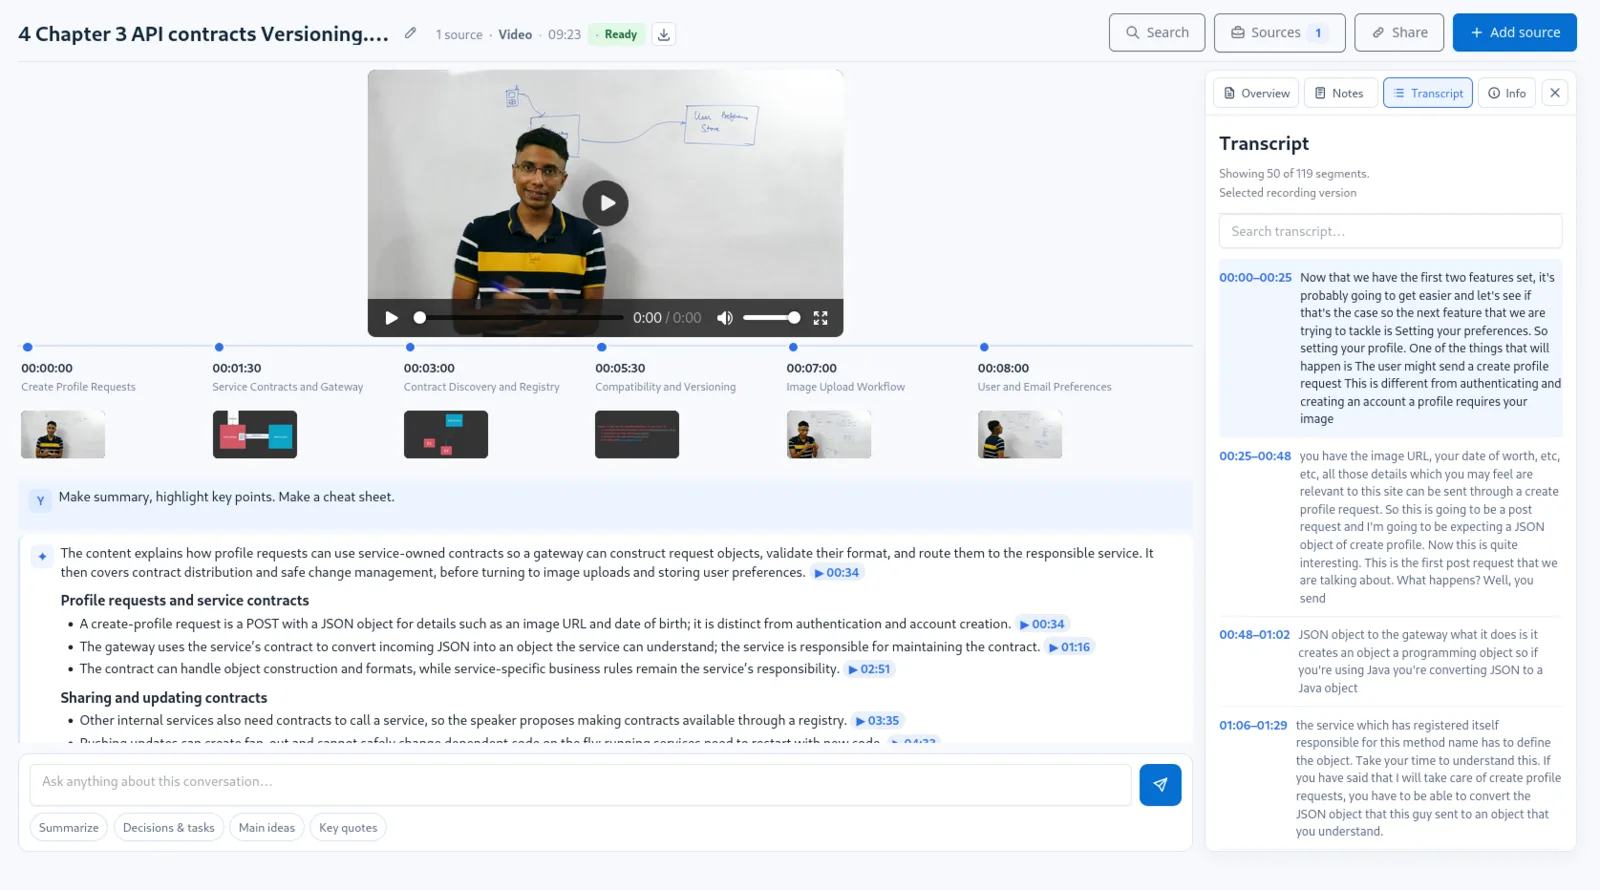
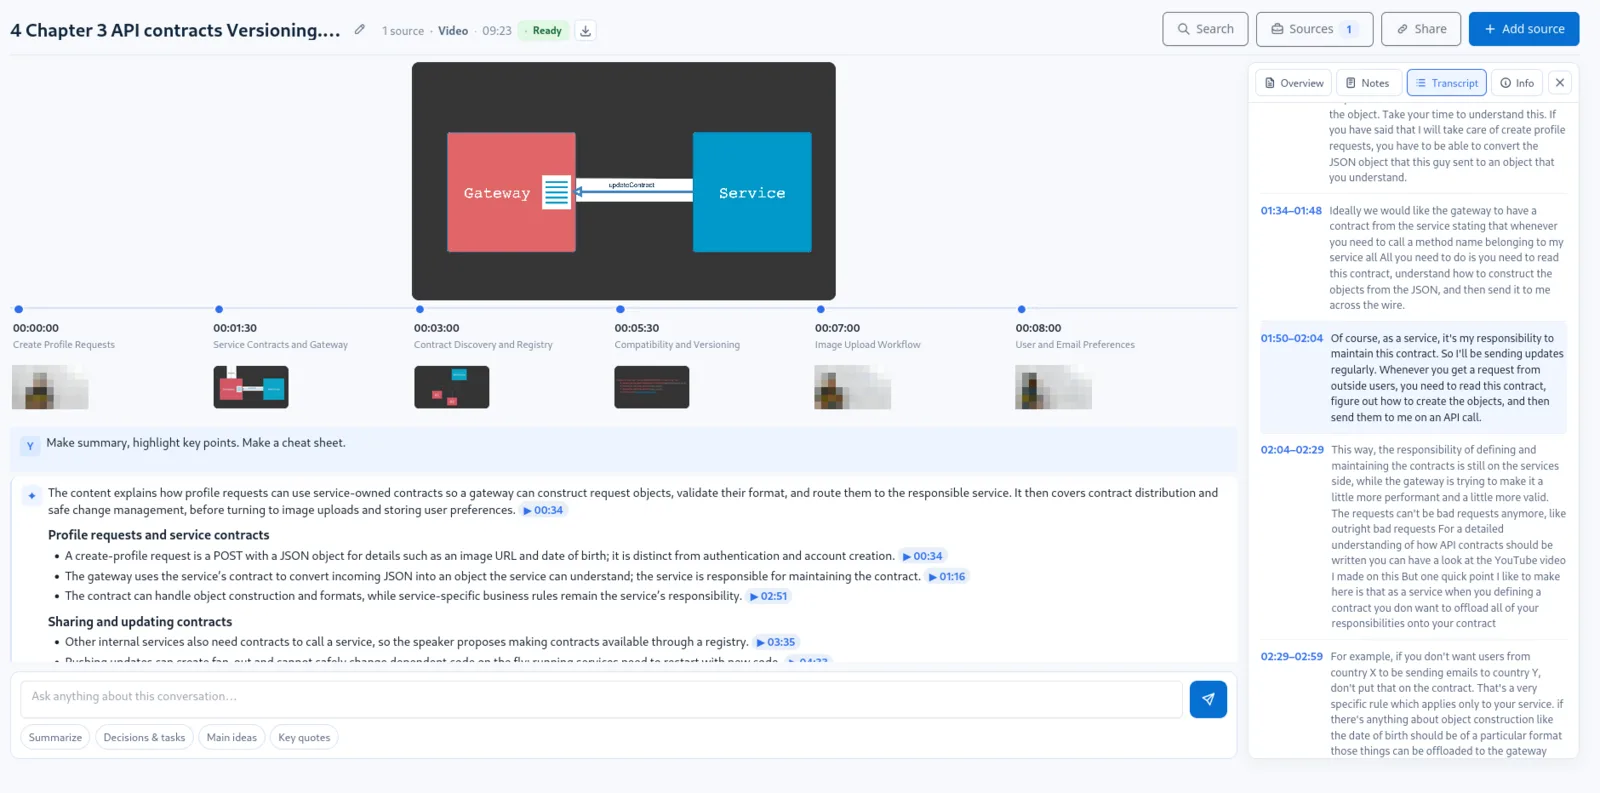
content: tldw screenshots without third-party faces
- chapter thumbnails with the lecturer pixelated in the card screenshot
- game panel shows the evidence view (cited answer -> exact video moment)

Claude-Session: https://claude.ai/code/session_011C9cLnFkLHGcLLHHwF6Jcr

diff --git a/src/components/CheckpointPanel.tsx b/src/components/CheckpointPanel.tsx
@@ -42,10 +42,8 @@ export function CheckpointPanel({ checkpoint, variant = 'default' }: Props) {
               <img
                 src={checkpoint.image.src}
                 alt={checkpoint.image.alt}
-                width={1600}
-                height={1000}
                 loading="lazy"
-                className="aspect-[16/10] w-full rounded-2xl border border-white/10 object-cover object-top"
+                className="h-auto w-full rounded-2xl border border-white/10"
               />
             ) : null}
 

diff --git a/src/content/checkpoints.ts b/src/content/checkpoints.ts
@@ -51,7 +51,7 @@ export const checkpoints: Checkpoint[] = [
     side: 'left',
     position: { x: 40, y: 25 },
     links: [{ label: 'tldw.cloud', href: 'https://tldw.cloud', external: true }],
-    image: { src: '/work/tldw.webp', alt: 'tldw.cloud conversation: video chapters, an answer with timestamped citations, and the transcript' },
+    image: { src: '/work/tldw-proof.webp', alt: 'tldw.cloud evidence view: a cited answer opens the exact video moment with its quote' },
     pathOrder: 3,
   },
   {
